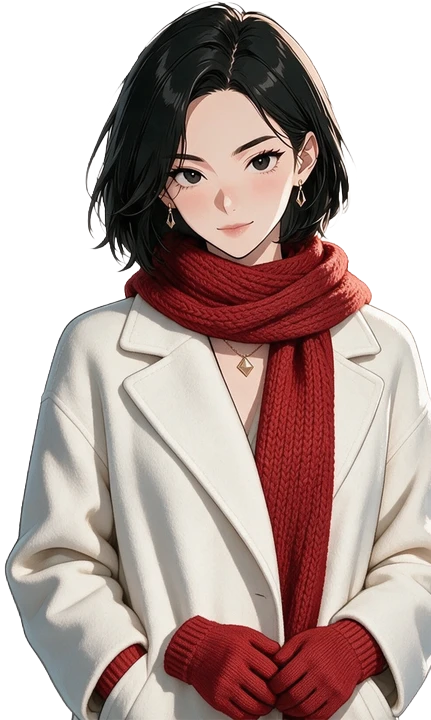
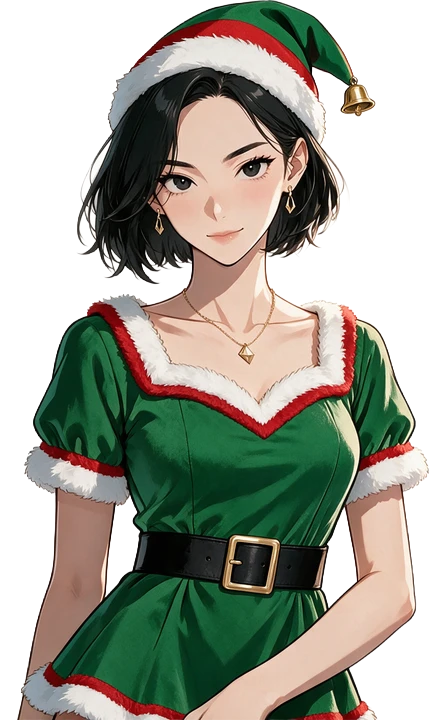
Ahn Young-yi winter skin, repainted as a Christmas elf (the user: the fixed hand looked like it was floating)
Made fresh from her plain portrait (gen_skins.py ahn-winter), not as a fix: a green elf dress with red and white fur trim, a black belt with a gold buckle, a pointed green-and-red hat with a bell; nothing in her hands, her arms relaxed at her sides as in the portrait; face, hair, earrings, necklace and framing kept. Same file and canvas; the coat versions kept in skins/raw/

Claude-Session: https://claude.ai/code/session_01CG7crrkzqt1vmaeQ7L7w6w

diff --git a/tools/gen_skins.py b/tools/gen_skins.py
@@ -46,9 +46,11 @@ SKINS = {   # skin: (source portrait, the new outfit)
     "diaochan-winter": ("diaochan", "Dress her for a festive winter: a rich crimson hanfu with soft white fur trim at the "
                         "collar and cuffs, a white fur-lined cape over her shoulders, a red plum-blossom hairpin in her hair, "
                         "and a few small snowflakes drifting around her."),
-    "ahn-winter": ("ms_ahn", "Dress her for a snowy Christmas evening in place of the office suit: a long ivory wool "
-                   "coat, a chunky red knit scarf wrapped around her neck, red knit gloves, and a small gift box wrapped in "
-                   "green paper with a red ribbon held in her hand. Keep her small gold earrings and necklace."),
+    "ahn-winter": ("ms_ahn", "Dress her as a Christmas elf in place of the office suit: a green elf tunic-dress with "
+                   "red and white fur trim at the collar, cuffs and hem, a wide black belt with a gold buckle, and a "
+                   "pointed green-and-red elf hat with white trim and a little gold bell on its tip. Her hands hold nothing "
+                   "and stay exactly where they are in the original, resting naturally against her body, arms relaxed at "
+                   "her sides. Keep her small gold earrings and necklace."),
     "jang-autumn": ("ms_jang", "Dress him in a cosy autumn outfit in place of the office clothes: a chunky oatmeal "
                     "cable-knit cardigan over a rust-orange crew-neck sweater, and a dark green and brown plaid scarf "
                     "loosely around his neck."),
